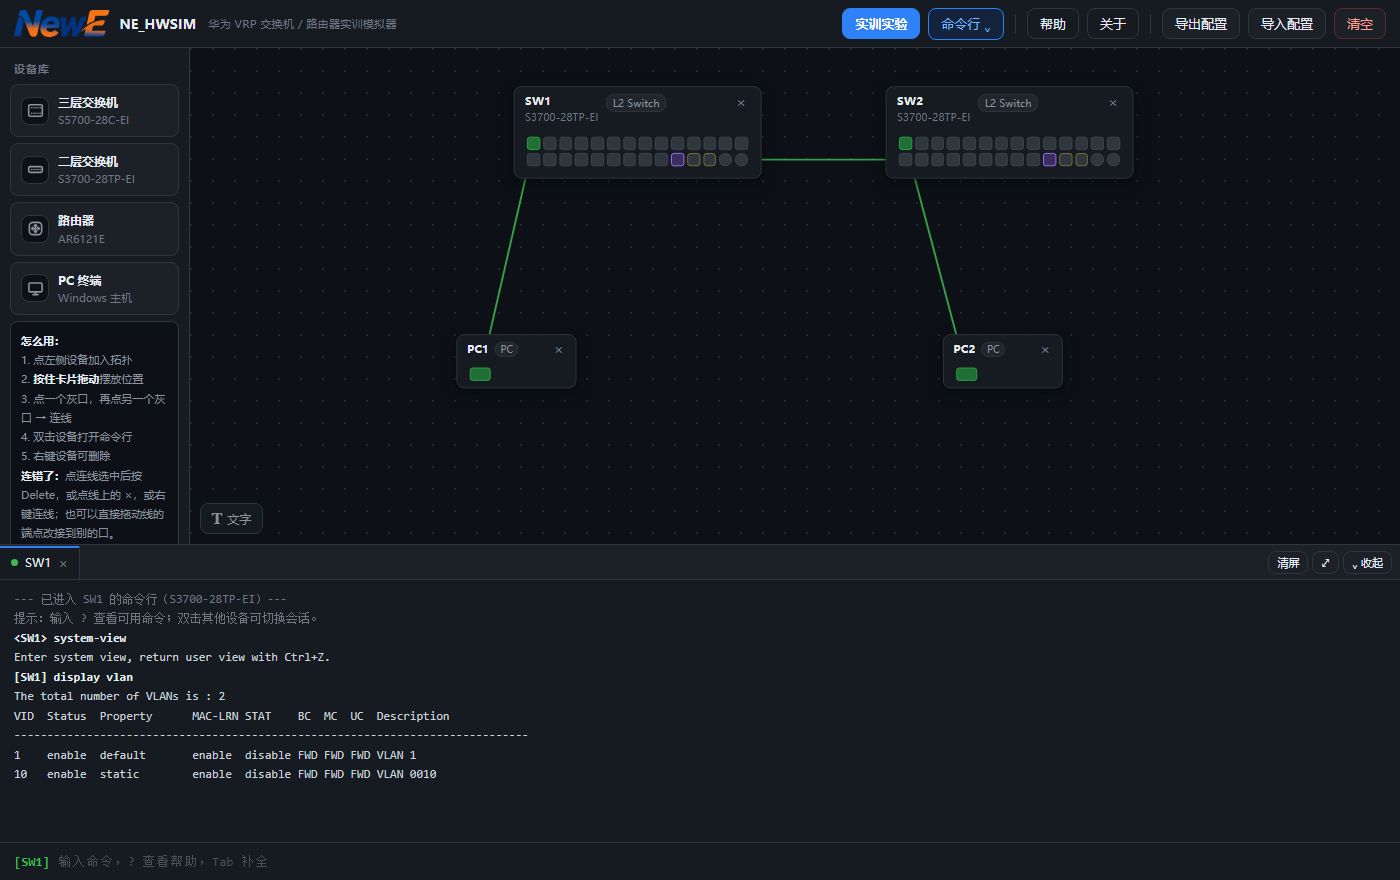
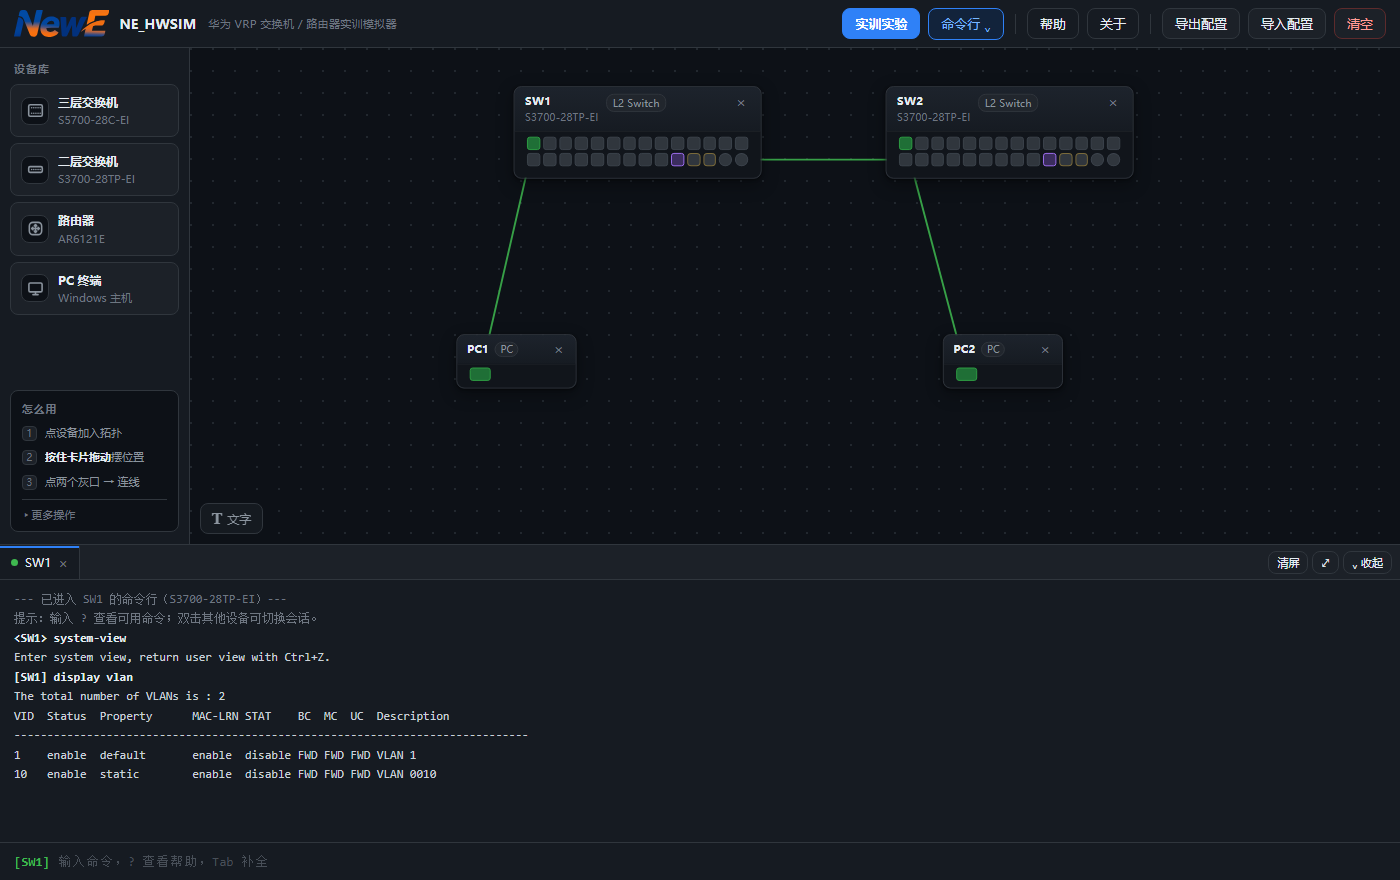
feat: v1.6.5 — 清空时收起命令行、面板开合后自动适配视图、卡片层次、左栏步骤卡

Changed region(s): [[0.0, 0.3682, 0.1229, 0.6136]]

diff --git a/NE_HWSIM.html b/NE_HWSIM.html
@@ -1,7 +1,7 @@
 <!DOCTYPE html>
 <!--
   NE_HWSIM —— 华为 VRP 网络实训模拟器（单文件版）
-  版本：v1.6.4
+  版本：v1.6.5
 
   Copyright (c) 2026 新易科技工作室 NewE
   作者：Liuyi  <yimr@sohu.com>
@@ -92,7 +92,13 @@
   .side{
     width:190px;flex:0 0 190px;background:var(--bg2);
     border-right:1px solid var(--line);display:flex;flex-direction:column;
+    /* 命令行展开时侧栏只剩 ~420px，展开「更多操作」会放不下 —— 让它自己滚，别溢到画布上 */
+    overflow-y:auto;overflow-x:hidden;
   }
+  .side::-webkit-scrollbar{width:6px}
+  .side::-webkit-scrollbar-thumb{background:#30363d;border-radius:3px}
+  .side::-webkit-scrollbar-thumb:hover{background:#3d444d}
+  .side::-webkit-scrollbar-track{background:transparent}
   .side h3{
     font-size:11px;font-weight:600;color:var(--tx3);letter-spacing:.9px;
     padding:13px 14px 8px;text-transform:uppercase;
@@ -117,12 +123,29 @@
   .pal:hover .ic{color:var(--cy);border-color:#28518f}
   .pal .tx b{display:block;font-size:12px;font-weight:600;line-height:1.35}
   .pal .tx span{font-size:11px;color:var(--tx3)}
-  .side .hint{
-    margin:auto 10px 12px;padding:9px 10px;border-radius:8px;
-    background:#0d1117;border:1px solid var(--line);font-size:11px;
-    line-height:1.75;color:var(--tx2);
+  /* 左栏「怎么用」：三步 + 折叠的细节。以前是 8 行小字堆在一起，首屏最吵的一块 */
+  .howto{
+    margin:auto 10px 12px;padding:10px 11px 9px;border-radius:8px;flex:0 0 auto;
+    background:#0d1117;border:1px solid var(--line);
   }
-  .side .hint b{color:var(--tx)}
+  .howto h4{font-size:11px;font-weight:600;color:var(--tx3);letter-spacing:.6px;margin-bottom:9px}
+  .howto ol{list-style:none;display:flex;flex-direction:column;gap:8px}
+  .howto li{display:flex;align-items:flex-start;gap:8px;font-size:11px;line-height:1.5;color:var(--tx2)}
+  .howto li i{
+    flex:0 0 15px;height:15px;border-radius:4px;background:var(--bg3);border:1px solid var(--line);
+    color:var(--tx3);font-size:10px;font-style:normal;line-height:13px;text-align:center;margin-top:1px;
+  }
+  .howto li b{color:var(--tx);font-weight:600}
+  .howto details{margin-top:9px;border-top:1px solid var(--line);padding-top:7px}
+  .howto summary{
+    cursor:pointer;font-size:11px;color:var(--tx3);list-style:none;transition:color .12s;
+  }
+  .howto summary::-webkit-details-marker{display:none}
+  .howto summary::before{content:'▸ ';display:inline-block}
+  .howto details[open] summary::before{content:'▾ '}
+  .howto summary:hover{color:var(--tx2)}
+  .howto details p{font-size:11px;line-height:1.7;color:var(--tx3);margin-top:7px}
+  .howto details p b{color:var(--tx2);font-weight:600}
 
   /* ---------- 画布 ---------- */
   .stage{flex:1;position:relative;overflow:hidden;background:
@@ -200,9 +223,10 @@
   .wire-x:hover path{stroke:#ff8078}
 
   .card{
-    position:absolute;background:var(--bg2);border:1px solid var(--line);
-    border-radius:8px;user-select:none;box-shadow:var(--sh-1);
-    transition:border-color .12s, box-shadow .12s;touch-action:none;
+    position:absolute;user-select:none;border:1px solid var(--line);border-radius:8px;
+    /* 头部比机身亮一档：「机箱面板」和「端口区」分开，24 口密集时不至于糊成一整块 */
+    background:linear-gradient(180deg,#1d232c 0,#161b22 var(--head-h));
+    box-shadow:var(--sh-1);transition:border-color .12s, box-shadow .12s;touch-action:none;
   }
   .card:hover{border-color:#4b5563;box-shadow:var(--sh-1h)}
   .card.sel{border-color:var(--cy);box-shadow:0 0 0 2px rgba(47,129,247,.28),var(--sh-1h)}
@@ -219,8 +243,14 @@
     margin-left:auto;color:var(--tx3);font-size:15px;line-height:1;padding:2px 4px;border-radius:4px;
   }
   .card .head .x:hover{color:var(--rd);background:#2d1618}
-  .ports{display:grid;gap:var(--gap);padding:var(--ports-pt) var(--pad-x) var(--ports-pb)}
+  .ports{
+    display:grid;gap:var(--gap);padding:var(--ports-pt) var(--pad-x) var(--ports-pb);
+    /* 端口区做成内嵌面板：底色压暗 + 顶部一道高光，端口方块就被"托"出来了 */
+    background:rgba(0,0,0,.2);border-radius:0 0 8px 8px;
+    box-shadow:inset 0 1px 0 rgba(255,255,255,.045);
+  }
   /* PC 只有一个网口，卡片既矮又窄（宽度由 JS 按设备类型给），头部元素跟着收紧 */
+  .card.compact{background:linear-gradient(180deg,#1d232c 0,#161b22 var(--head-h-pc))}
   .card.compact .head{height:var(--head-h-pc);padding:0 10px;gap:6px;align-items:center}
   .card.compact .head .md{display:none}
   .card.compact .head .nm{font-size:12px}
@@ -449,7 +479,7 @@
       border-right:none;border-top:1px solid var(--line);overflow-x:auto;overflow-y:hidden;
     }
     .side h3{display:none}
-    .side .hint{display:none} /* 太长，窄屏不占地方；帮助弹窗里有完整说明 */
+    .howto{display:none} /* 窄屏设备库变成底部横条，这块没地方放；帮助弹窗里有完整说明 */
     .palette{flex-direction:row;gap:8px;padding:7px 10px}
     .pal{
       flex-direction:column;gap:2px;padding:7px 10px;min-width:72px;
@@ -659,15 +689,19 @@
     <aside class="side">
       <h3>设备库</h3>
       <div class="palette" id="palette"></div>
-      <div class="hint">
-        <b>怎么用：</b><br />
-        1. 点左侧设备加入拓扑<br />
-        2. <b>按住卡片拖动</b>摆放位置<br />
-        3. 点一个灰口，再点另一个灰口 → 连线<br />
-        4. 双击设备打开命令行<br />
-        5. 右键设备可删除<br />
-        <b>连错了：</b>点连线选中后按 Delete，或点线上的 ×，或右键连线；也可以直接拖动线的端点改接到别的口。<br />
-        <b>手机上：</b>手指拖卡片=移动；拖空白=平移；两指捏合=缩放；双击=打开命令行；长按=删除；右下角有缩放按钮。
+      <div class="howto">
+        <h4>怎么用</h4>
+        <ol>
+          <li><i>1</i><span>点设备加入拓扑</span></li>
+          <li><i>2</i><span><b>按住卡片拖动</b>摆位置</span></li>
+          <li><i>3</i><span>点两个灰口 → 连线</span></li>
+        </ol>
+        <details>
+          <summary>更多操作</summary>
+          <p><b>双击</b>设备打开命令行；<b>右上角 ×</b> 或右键删除设备。</p>
+          <p><b>连错了：</b>点连线选中后按 Delete，或点线上的 ×，或右键连线，也可以直接拖动线的端点改接到别的口。</p>
+          <p><b>手机上：</b>拖卡片＝移动；拖空白＝平移；两指捏合＝缩放；双击＝打开命令行；长按＝删除；右下角有缩放按钮。</p>
+        </details>
       </div>
     </aside>
 
@@ -7452,7 +7486,7 @@
   /* ------------------------------ 版本信息 ------------------------------ */
   /* 版本号的唯一来源：改这一处即可。
      build.mjs 会把它读出来写进产物开头的注释，所以交付文件本身也能看出是哪个版本。 */
-  const APP_VERSION = '1.6.4';
+  const APP_VERSION = '1.6.5';
   const APP_INFO = {
     studio: '新易科技工作室 NewE',
     author: 'Liuyi',
@@ -8335,10 +8369,35 @@
    * 展开 / 收起下方命令行面板。
    * 收起时不清掉标签页，所以再点一次「命令行」能回到原来的会话。
    */
+  /** 面板开合 / 视口变化后，拓扑可能被挤出可视区。
+      最典型的场景：收起面板时加载实验 → fitView 按大画布算好；展开面板后画布矮了 336px，
+      底部那排设备就跑到面板后面去了，看起来像「设备不见了」。
+      只在「确实被裁到」时重新适配 —— 用户自己缩放、平移过的视图不会被无端重置。 */
+  function refitIfClipped() {
+    const devs = E.Net.devices;
+    if (!devs.length) return;
+    const rect = $('stage').getBoundingClientRect();
+    if (rect.width < 10 || rect.height < 10) return;
+    const s = UI.scale;
+    let clipped = 0;
+    for (const d of devs) {
+      const left = d.x * s + UI.panX;
+      const top = d.y * s + UI.panY;
+      if (left + cardW(d) * s < -6 || left > rect.width + 6 || top + cardHeight(d) * s > rect.height + 6 || top < -6) {
+        clipped++;
+      }
+    }
+    /* 阈值取「过半」：用户放大看某一台设备时，其余几台本来就在屏外，
+       那种情况不该被强行拉回全景；而展开面板把底部一整排挤出去时，过半数都会超标。 */
+    if (clipped >= Math.ceil(devs.length / 2)) fitView();
+  }
+
   function setTermOpen(on) {
     $('term').classList.toggle('open', !!on);
     if (!on) $('term').classList.remove('max');
     syncTermBtn();
+    // 面板高度变化有 .18s 过渡，等它落定再判断拓扑有没有被挤出去
+    setTimeout(refitIfClipped, 240);
     if (on) setTimeout(() => $('cmd').focus(), 60);
   }
 
@@ -8429,6 +8488,7 @@
     };
     tabsEl.querySelector('#btnMax').onclick = () => {
       $('term').classList.toggle('max');
+      setTimeout(refitIfClipped, 240);
     };
     tabsEl.querySelector('#btnFold').onclick = () => setTermOpen(false);
 
@@ -8931,6 +8991,8 @@
     persist();
     render();
     renderConsole();
+    // 拓扑清空后命令行还占着半屏、里面是已经不存在设备的会话 —— 自动收起来
+    setTermOpen(false);
   }
 
   const LABS = [
@@ -9639,7 +9701,7 @@
           <div class="r"><b>形态</b><span>单个 HTML 文件，双击即用。没有后端、没有账号、<b>不联网、不采集任何数据</b> —— 断网也能正常跑。</span></div>
           <div class="r"><b>内置</b><span>14 个实训实验 · 4 种设备（S5700-28C-EI 三层交换机 / S3700-28TP-EI 二层交换机 / AR6121E 路由器 / PC）· 华为 VRP 命令行</span></div>
           <div class="r"><b>端口</b><span>按真机型号还原，含<b>光电复用（Combo）口</b> —— 接网线用电口、插光模块用光口，二选一</span></div>
-          <div class="r"><b>体积</b><span>约 439 KB 的单个 HTML 文件，不需要安装任何东西</span></div>
+          <div class="r"><b>体积</b><span>约 443 KB 的单个 HTML 文件，不需要安装任何东西</span></div>
           <div class="r"><b>许可</b><span><b>MIT License</b> —— 可以自由使用、修改、商用，甚至不用告诉我</span></div>
         </div>
 
@@ -9944,13 +10006,13 @@
   UI.importConfigText = importConfigText;
   UI.cardW = cardW;
   UI.cardHeight = cardHeight;
+  UI.fitView = fitView;
   UI.ensureVisible = ensureVisible;
   UI.bringIntoView = bringIntoView;
   UI.showAbout = showAbout;
   UI.version = APP_VERSION;
   UI.zoomBy = zoomBy;
   UI.zoomAt = zoomAt;
-  UI.fitView = fitView;
   UI.narrow = narrow;
   UI.metrics = metrics;
   /** 视口尺寸变了（旋屏、切设备模拟）后重算几何并重绘 —— 卡片尺寸来自 CSS 变量，要重新读 */

diff --git a/使用说明.md b/使用说明.md
@@ -10,7 +10,7 @@
 2. **双击它**，用 Chrome / Edge 打开即可。
 3. 打开后会自动加载「实验一 · VLAN 基础」的拓扑，点 **「开始配置」** 就能动手。
 
-**不需要**装软件、**不需要**联网、**不需要**服务器、**不需要**命令行。整个模拟器就是这一个文件（约 439 KB）。
+**不需要**装软件、**不需要**联网、**不需要**服务器、**不需要**命令行。整个模拟器就是这一个文件（约 443 KB）。
 
 **手机上也能用**：把这个 HTML 文件传到手机（微信、QQ、网盘都行），用手机浏览器打开即可，  
 界面会自动切成竖版 —— 设备库在底部，手指拖动摆放设备、双指捏合缩放。  
